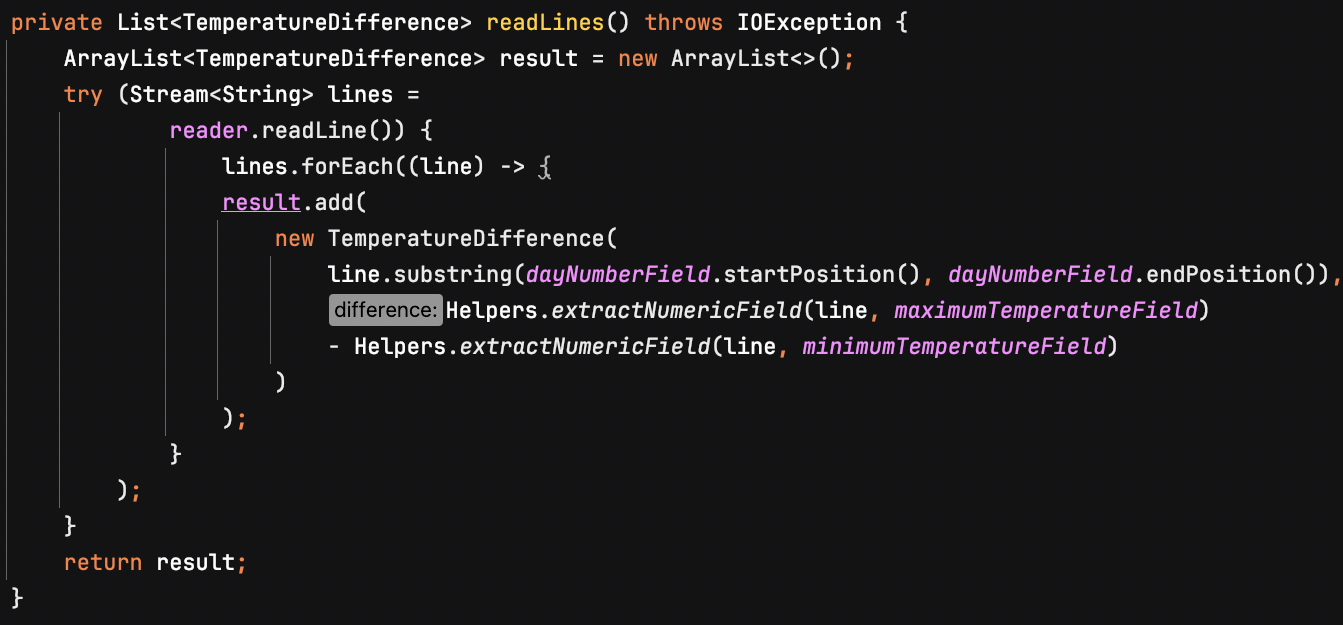
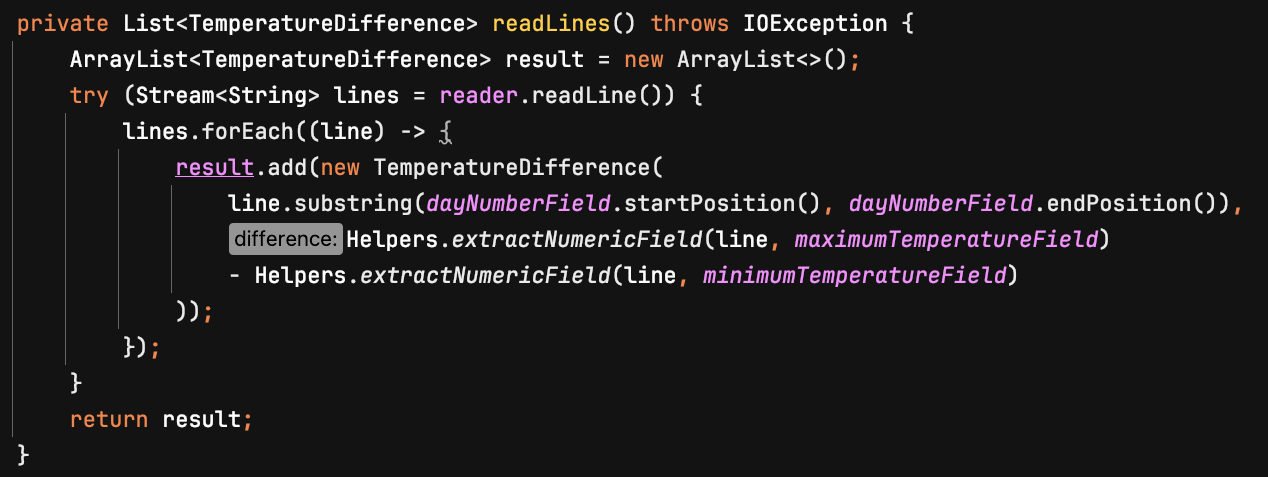
Refactored Weather to use Stream I/O

diff --git a/iteration2-sociabletestsjava/src/main/java/com/neopragma/withmocks/v3/Weather.java b/iteration2-sociabletestsjava/src/main/java/com/neopragma/withmocks/v3/Weather.java
@@ -1,47 +1,44 @@
 package com.neopragma.withmocks.v3;
 
 import java.io.IOException;
-import java.nio.file.Files;
-import java.nio.file.Path;
 import java.util.ArrayList;
 import java.util.List;
 import java.util.stream.Stream;
 
 public class Weather {
     private ReaderWrapper reader;
-    private static final FieldPosition dayNumberField = new FieldPosition(2,4);
-    private static final FieldPosition maximumTemperatureField = new FieldPosition(5,8);
-    private static final FieldPosition minimumTemperatureField = new FieldPosition(11,14);
+    private static final FieldPosition dayNumberField = new FieldPosition(2, 4);
+    private static final FieldPosition maximumTemperatureField = new FieldPosition(5, 8);
+    private static final FieldPosition minimumTemperatureField = new FieldPosition(11, 14);
+
     public Weather(ReaderWrapper reader) {
         this.reader = reader;
     }
+
     public TemperatureDifference smallestTemperatureRange() {
         try {
             return readLines()
-                .stream()
-                .reduce(new TemperatureDifference("99",1000),
-                    (smallestSoFar, currentElement) ->
-                        currentElement.difference() < smallestSoFar.difference() ?
-                            currentElement : smallestSoFar
-                );
+                    .stream()
+                    .reduce(new TemperatureDifference("99", 1000),
+                            (smallestSoFar, currentElement) ->
+                                    currentElement.difference() < smallestSoFar.difference() ?
+                                            currentElement : smallestSoFar
+                    );
         } catch (IOException e) {
             throw new RuntimeException(e);
         }
     }
+
     private List<TemperatureDifference> readLines() throws IOException {
         ArrayList<TemperatureDifference> result = new ArrayList<>();
-        try (Stream<String> lines =
-                reader.readLine()) {
-                    lines.forEach((line) -> {
-                    result.add(
-                        new TemperatureDifference(
-                            line.substring(dayNumberField.startPosition(), dayNumberField.endPosition()),
-                            Helpers.extractNumericField(line, maximumTemperatureField)
-                            - Helpers.extractNumericField(line, minimumTemperatureField)
-                        )
-                    );
-                }
-            );
+        try (Stream<String> lines = reader.readLine()) {
+            lines.forEach((line) -> {
+                result.add(new TemperatureDifference(
+                    line.substring(dayNumberField.startPosition(), dayNumberField.endPosition()),
+                    Helpers.extractNumericField(line, maximumTemperatureField)
+                    - Helpers.extractNumericField(line, minimumTemperatureField)
+                ));
+            });
         }
         return result;
     }

diff --git a/iteration2-sociabletestsjava/src/test/java/com/neopragma/withmocks/v3/WeatherTest.java b/iteration2-sociabletestsjava/src/test/java/com/neopragma/withmocks/v3/WeatherTest.java
@@ -1,23 +1,32 @@
 package com.neopragma.withmocks.v3;
 
 import org.junit.jupiter.api.Test;
+import org.junit.jupiter.api.extension.ExtendWith;
+import org.mockito.Mock;
+import org.mockito.junit.jupiter.MockitoExtension;
+
+import java.util.Arrays;
 
 import static org.junit.jupiter.api.Assertions.assertEquals;
+import static org.mockito.Mockito.when;
 
+@ExtendWith(MockitoExtension.class)
 public class WeatherTest {
     private final String testRecord1 =
         "   9  86    32*   59       6  61.5       0.00         240  7.6 220  12  6.0  78 46 1018.6";
     private final String testRecord2 =
         "  15  64    55    60       5  54.9       0.00 F       040  4.3 200   7  9.6  96 70 1006.1";
     private static final String EOF = null;
+    @Mock
+    ReaderWrapper mockReader;
 
     @Test
     public void it_returns_the_day_number_of_the_day_with_the_smallest_temperature_difference() {
-        ReaderWrapper stubbedReader = ReaderWrapper.createStub(
-                new String[] { testRecord1, testRecord2 }
+        when(mockReader.readLine()).thenReturn(
+                Arrays.stream(new String[] { testRecord1, testRecord2 })
         );
         TemperatureDifference expected = new TemperatureDifference("15", 9);
-        Weather cut = new Weather(stubbedReader);
+        Weather cut = new Weather(mockReader);
         assertEquals(expected, cut.smallestTemperatureRange());
     }
 }

diff --git a/iteration2-sociabletestsjava/src/main/java/com/neopragma/withmocks/v3/ReaderWrapper.java b/iteration2-sociabletestsjava/src/main/java/com/neopragma/withmocks/v3/ReaderWrapper.java
@@ -1,39 +1,16 @@
 package com.neopragma.withmocks.v3;
 
-import java.io.BufferedReader;
-import java.io.IOException;
-import java.nio.file.Files;
-import java.nio.file.Path;
-import java.util.Arrays;
 import java.util.stream.Stream;
 
 /**
  * Workaround to enable mocking of BufferedReader.readLine().
  */
 public class ReaderWrapper {
-    private Stream<String> lines;
-    private Path path;
-    private String[] records;
-    private ReaderWrapper() {}
-    public static ReaderWrapper create(String pathName) {
-        ReaderWrapper wrapper = new ReaderWrapper();
-        wrapper.path = Path.of(pathName);
-        return wrapper;
-    }
-    public static ReaderWrapper createStub(String[] records) {
-        ReaderWrapper wrapper = new ReaderWrapper();
-        wrapper.records = records;
-        return wrapper;
+    private Stream<String> records;
+    public ReaderWrapper(Stream<String> records) {
+        this.records = records;
     }
     public Stream<String> readLine() {
-        if (records == null) {
-            try {
-                return Files.lines(path);
-            } catch (IOException e) {
-                throw new RuntimeException(e);
-            }
-        } else {
-            return Arrays.stream(records);
-        }
+        return records;
     }
 }

diff --git a/i2-java-walkthrough.md b/i2-java-walkthrough.md
@@ -368,8 +368,40 @@ the file in production and from an array or list of fake input records for testi
 could change ```ReaderWrapper.readLine()``` to return a Stream of Strings, either by calling 
 ```Files.lines()``` with a ```Path``` or by converting an array of Strings into a Stream. 
 
+We need a wrapper for the Steams I/O implementation, as well. But this time the ```readLine()``` method 
+must return ```Stream<String>``` instead of ```String```. Then we can adjust the Mock configuration to 
+match. 
 
- 
+![WeatherTest mock now returns Stream<String>](images/i2/i2-java-mock-test-smallest-9.png)
+
+Most of the time, we don't need to modify test code provided we write State-Based Tests instead of 
+Interaction Tests. In this case, we intend to modify the return type from the injected ```readLine()``` 
+method in the ```ReaderWrapper```. Therefore, we need to begin by modifying the configuration of the 
+Mock in our test case. 
+
+What about the claim that testing with mocks causes refactoring to break test cases? If we follow the 
+discipline of TDD, that won't happen. It isn't a valid reason to avoid using mocks.
+
+Next, we modify ```ReaderWrapper``` to return ```Stream<String``` from method ```readLine()```. 
+
+![ReaderWrapper modified for Stream I/O](images/i2/i2-java-readerwrapper-2.png)
+
+Finally, we're ready to modify the production code to use Stream I/O. 
+
+![Weather.readLines() using Stream I/O](images/i2/i2-java-mock-weather-5.png)
+
+The test passes.
+
+![Weather.readLines() using Stream I/O](images/i2/i2-java-mock-weather-6.png)
+
+
+
+
+## Changing file access in the version using Nullables
+
+Now let's see how to do the same refactoring in the version using Nullables.
+
+
 
 
 
